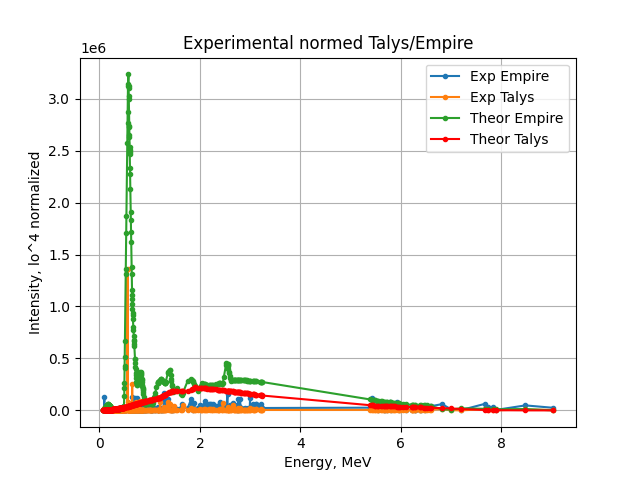
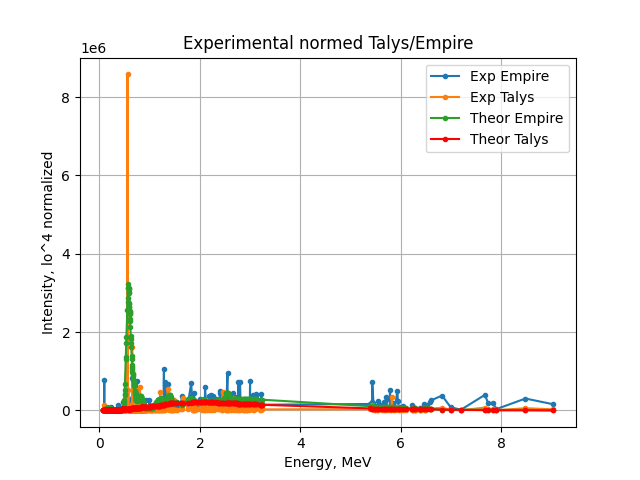
theoretical plot log scaling

diff --git a/pyth/t.py b/pyth/t.py
@@ -17,8 +17,8 @@ with open("emp.txt") as fl:
     if (float(l[2])>180000.0):
       continue
     xs.append(float(l[0])/1000)
-    ys.append(float(l[2]))
-
+    ys.append(float(l[2])*6.2869461)
+# 6.2869461
 
 xs2 = []
 ys2 = []
@@ -31,7 +31,7 @@ with open("tal.txt") as fl:
     # if (float(l[2])>180000.0):
     #   continue
     xs2.append(float(l[0])/1000)
-    ys2.append(float(l[2]))
+    ys2.append(float(l[2])*6.2869461)
 
 xs0 = []
 ys10 = []

diff --git a/pyth/main.py b/pyth/main.py
@@ -18,8 +18,12 @@ with open("data.txt") as fl:
     ys2.append(float(l[2]))
 
 print(len(xs), len(ys1), len(ys2))
+xs = xs[:-1]
+ys1 = ys1[:-1]
+ys2 = ys2[:-1]
 
 fig, ax = plt.subplots()
+ax.set_yscale('log')
 ax.plot(xs, ys1,'.', ls='-', label='Empire')
 ax.plot(xs, ys2,'.', ls='-', color="r",label='Talys')
 # ax.scatter([1,3],[2,5])
